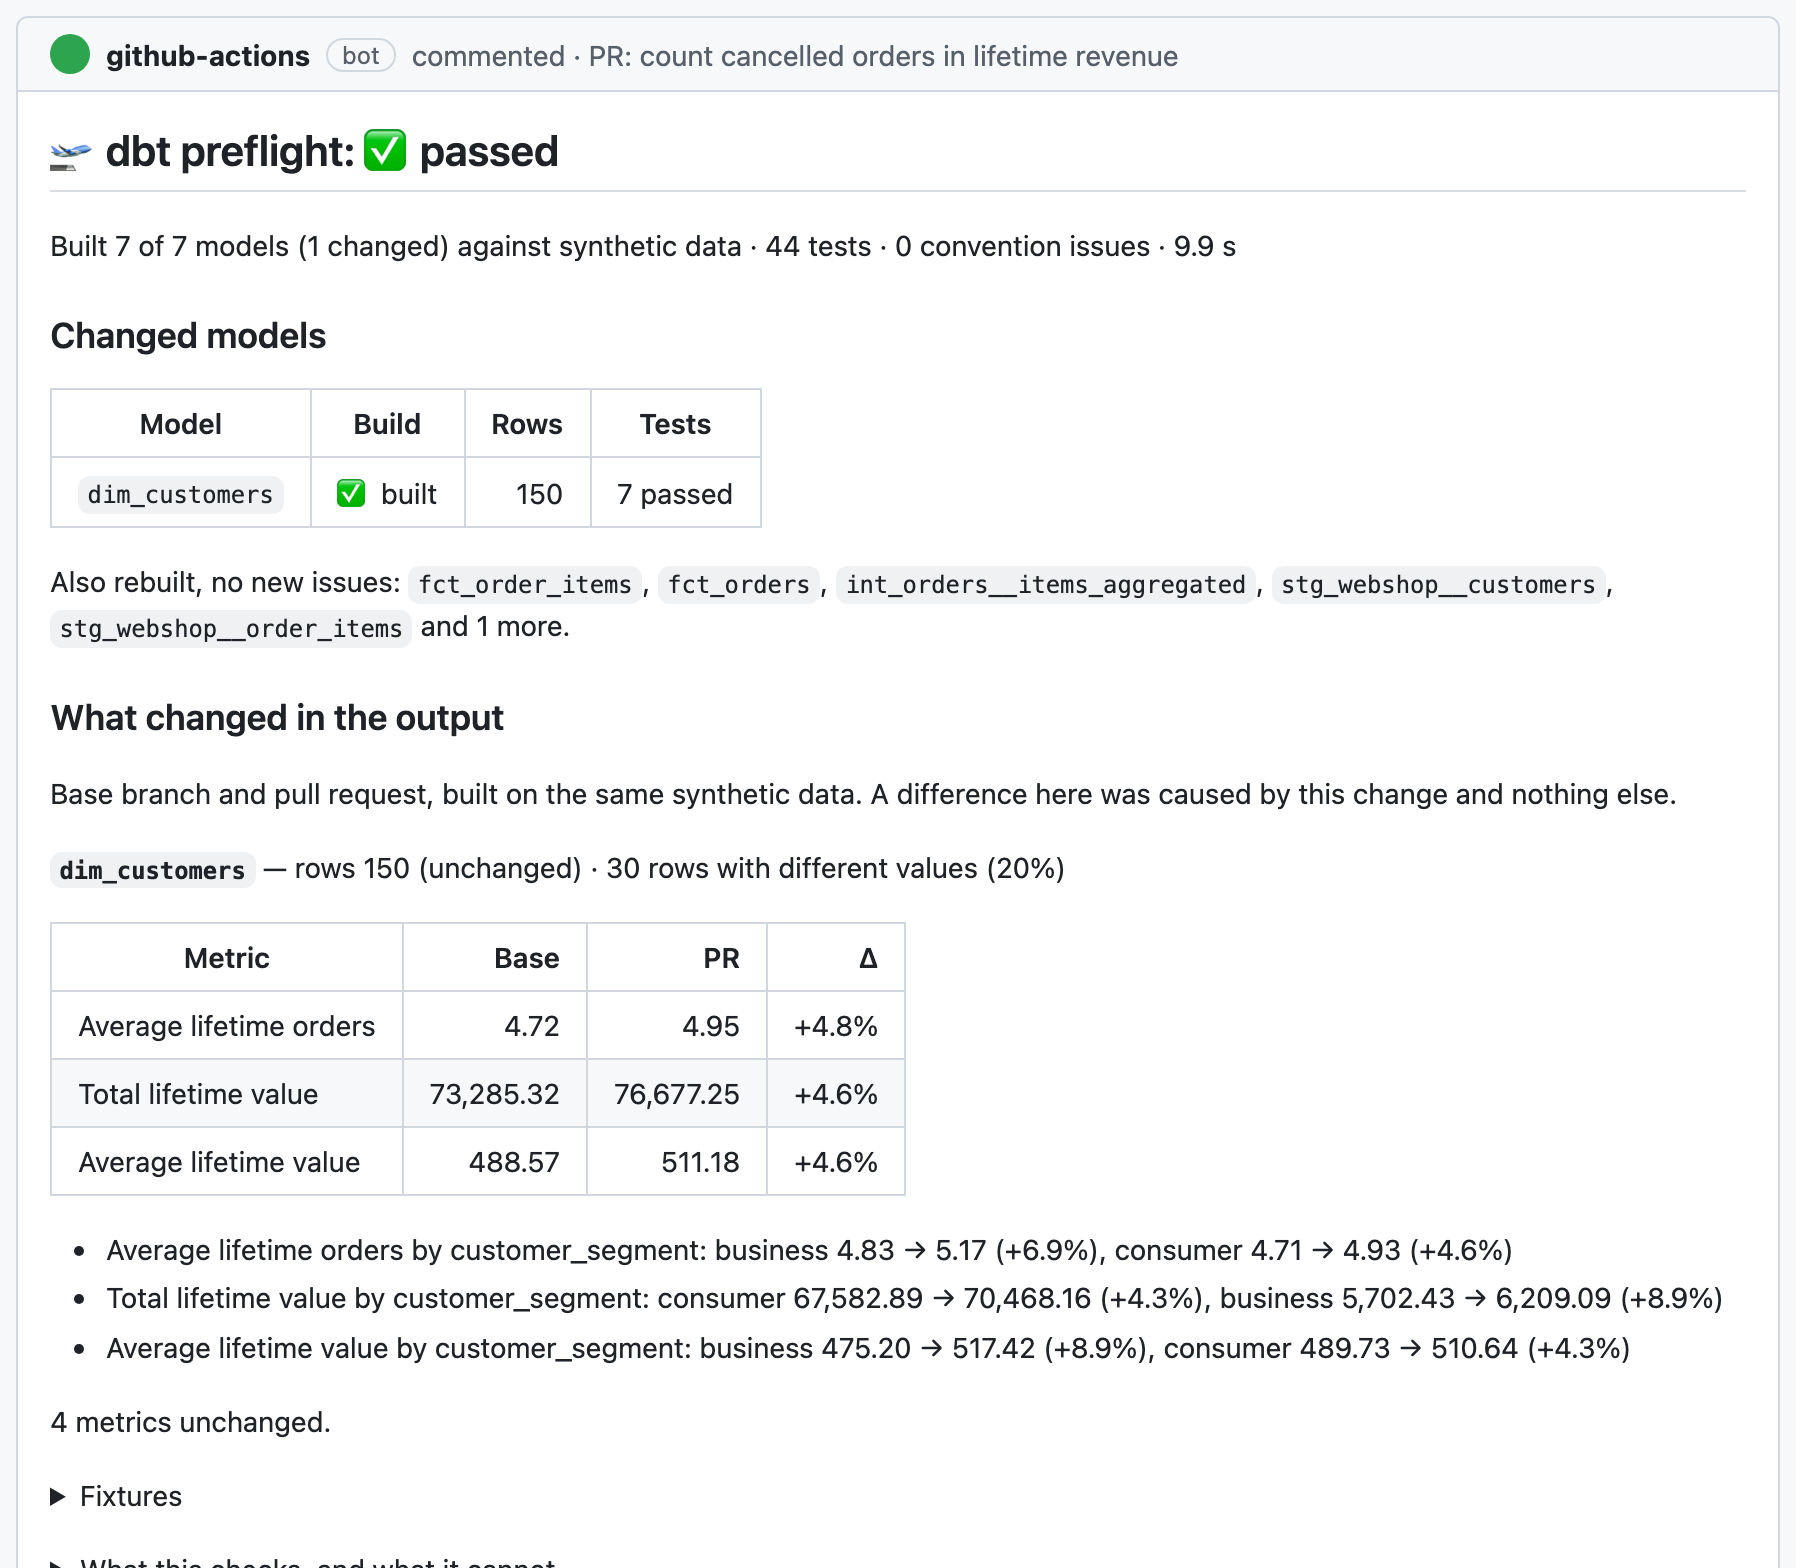
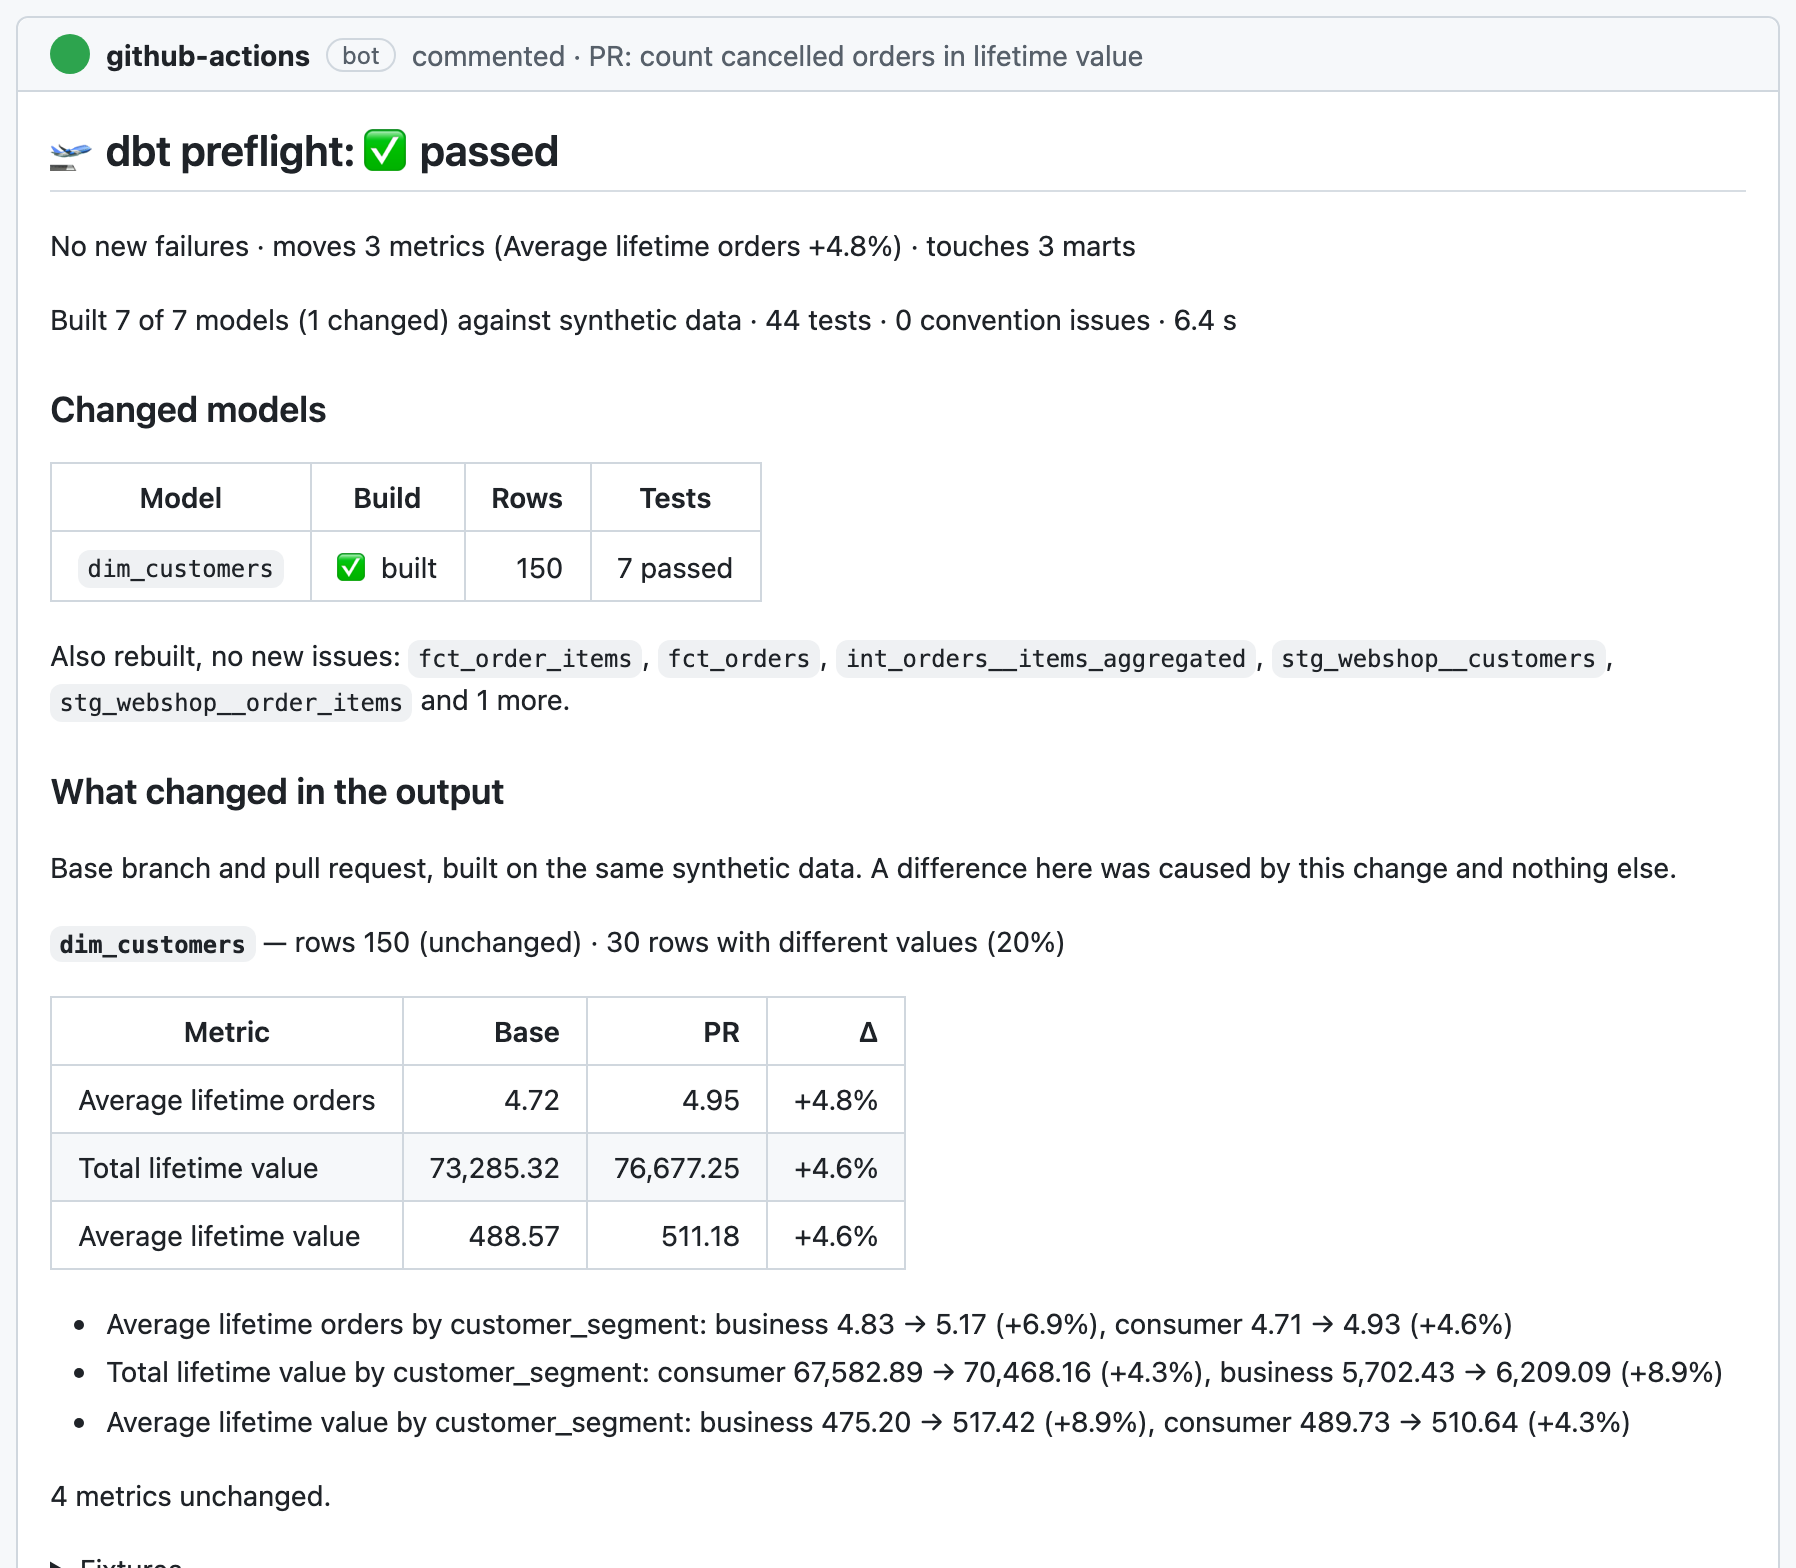
Re-shoot the README screenshots on the final 0.5.0 and record the baseline
The four comment images now come from the final code (with the headline
under the verdict); the broken-on-main image is jaffle-shop's harmless
change, whose tests that fail on main too are folded with a note. The
real-world baseline records 0.5.0: shopify without a schema builds 52
models on a harmless change; shopify with its hand-written schema now
counts four customer models it could not check, which 0.4.0 excused.

diff --git a/README.md b/README.md
@@ -100,7 +100,7 @@ from dbt's semantic layer, Lightdash `meta.metrics`, or a `metrics:` list in the
 
 ### What was already broken, and what could not be checked
 
-![A preflight comment on Fivetran's Shopify package that passes with warnings: two models that also fail on main are listed first, with the models they skip, and the pull request is not failed for them](https://raw.githubusercontent.com/JB-Analytica/dbt-preflight/main/assets/comment-broken-on-main.png)
+![A preflight comment on dbt-labs/jaffle-shop that passes with warnings: three tests that also fail on main are listed first and folded below, each noting which columns' types preflight guessed, and the harmless pull request is not failed for them](https://raw.githubusercontent.com/JB-Analytica/dbt-preflight/main/assets/comment-broken-on-main.png)
 
 A model that fails the same way on `main` leads the comment under ⚠ *Broken on main too*
 and does not fail the pull request. Tests synthetic data can never satisfy fail on both
